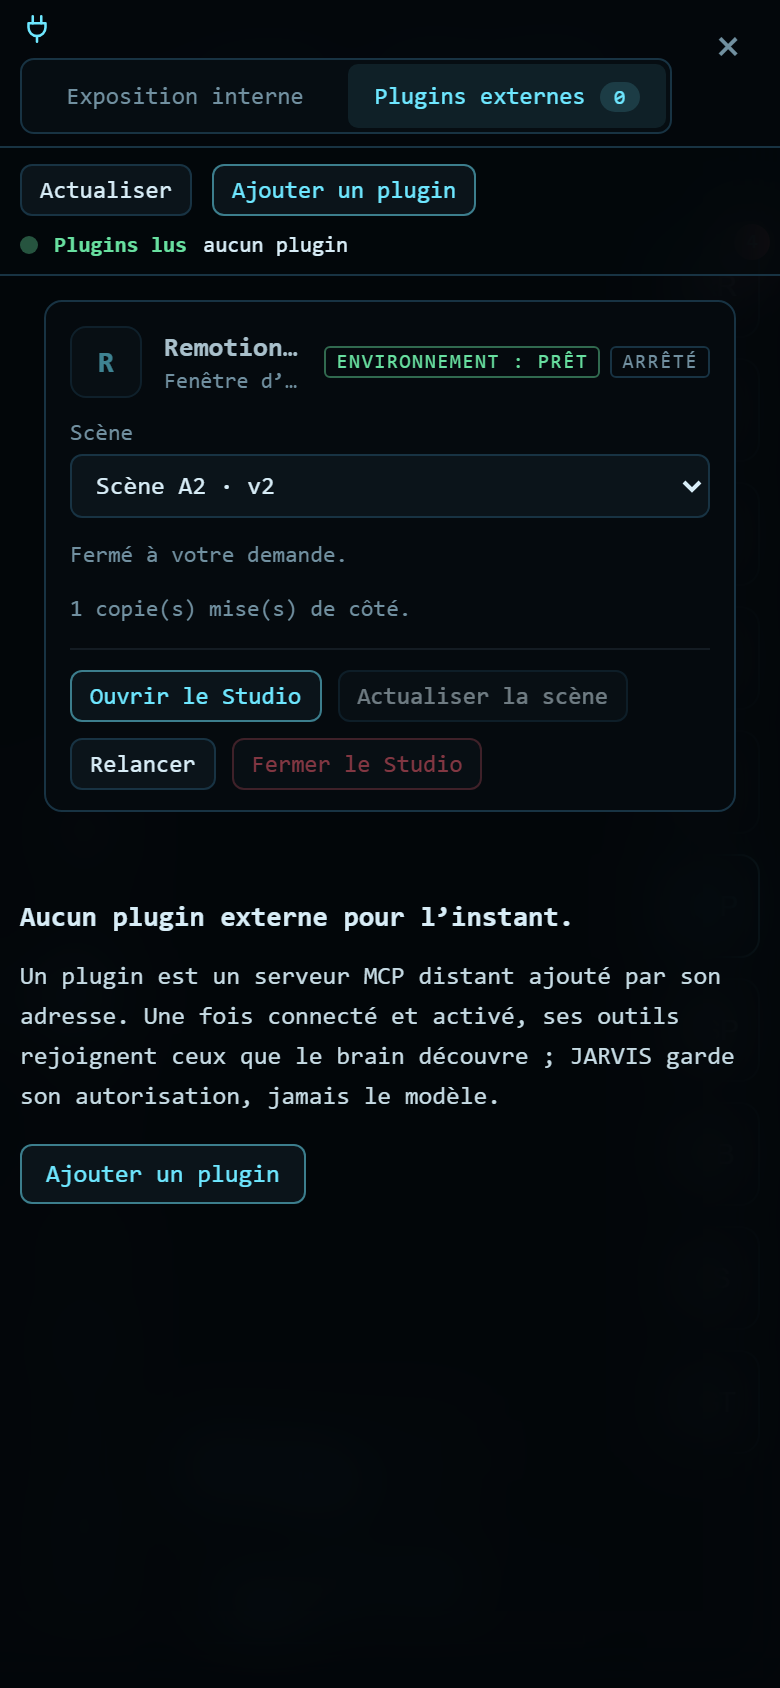
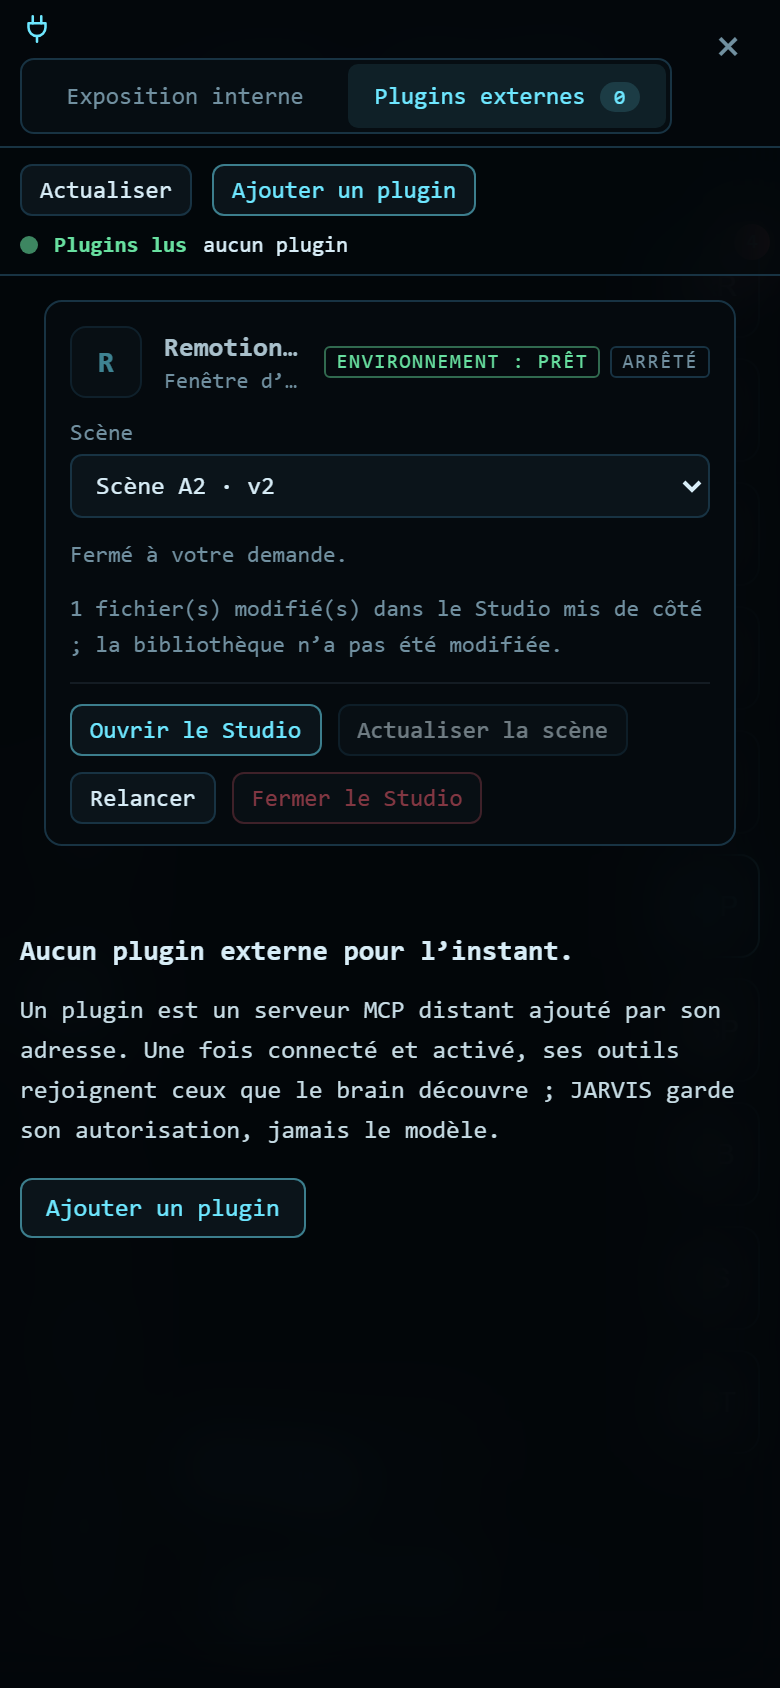
S11: LOG and evidence index, final real evidence at 875407f1

diff --git a/tasks/jarvis-remotion-presentation-integration/LOG.md b/tasks/jarvis-remotion-presentation-integration/LOG.md
@@ -102,3 +102,14 @@ Ancienne branche supprimée, recréée depuis origin/main de7b9c59 (studio fusio
 - **Polish** : P1 chien de garde et tas reformulés (abus naïf ou accidentel seulement) ; P2 message de 64 Mo mesuré (hôte figé 240 à 340 ms puis `too_large`) et documenté (l'hôte ne peut pas l'empêcher) ; P3 `embedder_frame_src` n'accepte plus qu'une origine, la Slice 10 doit monter le cadre dans un document sans `frame-src` du visualiseur ou trancher et tester ; P4 `origin_of` canonique (`ipaddress`, IPv4 pointé de boucle ou `localhost`) ; P5 rafale soutenue : retrait en 3 s (`maxFloodSeconds`) au lieu de ~20 s, rafale invalide ~0,14 s ; P7 membres ZIP dupliqués refusés (`archive_duplicate`) ; jeton de ping `strongToken()` (128 bits cryptographiques) ; addendum de réception dans `slices/10-remotion-player-host/SLICE.md` (frame-src, `tick()`, jeton fort, `Allow-Origin: *`, discipline des props).
 - **Preuve réelle rafraîchie** : `evidence/real-isolation.json`, `5cd1fa9f`, arbre propre, Chrome 154.0.8037.99, Node v24.18.0 : **PASSED, 44 vérifications** (13 échantillons × direct/évasif, canaux WebRTC/liens, message de 64 Mo, contrôles négatifs, ablations dont « sans durcissement », rien reçu par le puits hors contrôles et ablations).
 - **Tests** : `test_remotion_isolation` 229, `test_remotion_sandbox_protocol_js` 15, `test_remotion_isolation_docs` 7.
+
+## 2026-10-09 - Slice 11 : Studio Remotion optionnel, serveur d'aperçu à chaud (worktree brs11, branche `task/jarvis-remotion-presentation-integration-s11`, base `a4b39d46`)
+- **Contrat** : `docs/remotion-studio.md` (Level 2 ; `SECURITY.md` §19, `OPERATIONS.md` « Studio Remotion optionnel », `local-capabilities.md` §6-7, `remotion-runtime.md` §6/§11). Le Studio (`remotion studio`, webpack, rechargement à chaud) est un **processus supplémentaire** de la capacité locale Remotion, ouvert **seulement** par `POST /v1/local-capabilities/remotion/studio/open` (bouton de la carte) : jamais au démarrage de Core, par l'aperçu, ni par un `GET`. **Un seul par profil** (réouverture de la même scène = hôte réutilisé ; autre scène = changement en place par `sync`, même processus).
+- **Code** : `jarvis/domain/remotion_studio.py` (statuts, codes `remotion_studio_*`, `plan_workspace` pur, vue publique), `jarvis/ports/remotion_studio.py`, `jarvis/adapters/remotion_studio_runner.py` (copie de travail, lancement, identité, arrêt de l'arbre), `jarvis/core/remotion_studio_service.py` (états, un hôte, surveillance, inactivité, `reconcile`/adoption, arrêt de Core), `jarvis/protocol/remotion_studio_routes.py` (préfixe frère `/v1/local-capabilities/remotion/studio`), `jarvis/capabilities/remotion/studio-guard.cjs` (garde dans le processus du Studio), `jarvis/runtime/remotion_studio_relay.py` + `control_center_remotion_studio.js` (carte « Remotion · Studio », en tête de l'onglet « Plugins externes »). Câblage minimal dans `v2_app.py` (service + crochet `before_operation` : le Studio est arrêté avant `update/repair/uninstall/disable` de la capacité), `app.py` (runner, `JARVIS_REMOTION_STUDIO_PORT`, `JARVIS_REMOTION_STUDIO_IDLE_S`), `server.py`, `client.py` (préfixe relayé `/v1/local-capabilities/remotion`), `control_center.py`/`.html`. `runtime-host.mjs`, `package*.json`, la compilation, la scène, le Player, la sandbox et le moteur ne sont pas touchés.
+- **Source servie** : uniquement `src/**` et `public/**` de la version épinglée (`PrefabService.remotion_source`, gardes de la Slice 06 comprises) + deux fichiers générés (`package.json` qui fait de `work/` la racine Remotion, `studio-root.tsx` avec la composition **déclarée** et les `sample.props`), en **copie en lecture seule** sous `runtime/studio/work/`. Jamais la racine de données. Les modifications faites hors de Jarvis (Studio ou main) sont détectées par empreintes, **mises de côté** (`studio/edits/`, 5 dossiers) avant chaque synchronisation et à la fermeture, jamais publiées : l'écriture vers la bibliothèque reste `PrefabService` (Slices 14-15).
+- **Constats de la recherche réelle (décisifs pour le garde)** : (1) le Studio stock lie `0.0.0.0`/`::` (« Network: http://192.168... » dans son journal) ; (2) son API, de même origine que la scène, sait lancer un gestionnaire de paquets (`install-dependency`), un éditeur, un terminal, un agent, `upgrade-remotion`, et télécharger une URL (`download-remote-asset`) ; (3) il a besoin d'un seul enfant, le service `esbuild` de son chargeur TSX (mesuré : sans cette exception la compilation du Studio échoue). Le garde (`--require`, copié et comparé à chaque lancement) force la boucle locale, refuse toute connexion TCP/DNS/UDP sortante et tout enfant hors `esbuild` épinglé, pose une CSP, répond à `/__jarvis_studio__/health` (identifiant de lancement), tient `activity.json`, et **termine seul** le Studio si Core a disparu depuis 60 s ou après l'inactivité (jamais d'orphelin).
+- **Décisions** : (1) échec de démarrage = la vue (`failed` + code + journal), pas une erreur HTTP, comme les capacités ; (2) une collision de port aléatoire est retentée une fois, un port imposé jamais remplacé ; (3) pas de reprise automatique après plantage (`failed` + « Relancer », explicite) ; (4) l'inactivité = aucune requête **et** aucun WebSocket (un onglet ouvert n'est jamais inactif) ; (5) le Control Center ne relaie **que** six adresses, jamais l'installation ; (6) l'ouverture automatique de la fenêtre après un long démarrage peut être refusée par le navigateur : le lien reste affiché.
+- **Preuve réelle** : `slices/11-remotion-studio-process-ui/evidence/real-studio.json` + `evidence/screens/*.png`, `scripts/remotion_studio_harness.py` à `875407f1` (arbre propre ; Windows 11 10.0.26200, Node v24.18.0, Chrome 154.0.8037.99) : **PASSED, 38 vérifications**. Core isolé (`127.77.0.9`, port libre, racine de données privée), **vraie installation npm** (12 à 24 s), vraie bibliothèque de prefabs, **vrai `remotion studio`** (démarrage à froid 31 à 50 s), vrai Control Center isolé, vrai Chrome. Prouvé : aucun lancement par Core ni par la carte ; écoute **seulement** sur `127.0.0.1` (netstat de l'arbre) et l'adresse du réseau local refuse le port ; scène affichée dans Chrome ; **rechargement à chaud sans recharger la page en 0,6 à 1,8 s** après publication d'une nouvelle version + `sync` ; la CSP de la page bloque `fetch` vers un autre domaine et une image distante ; un hôte, changement de scène sur place (mêmes pids) ; copie en lecture seule, modification extérieure signalée puis mise de côté, bibliothèque intacte ; `restart` remplace tout l'arbre, un `taskkill` externe devient `failed`/`process_exited`, `open` récupère ; `close` sans processus ni port ; interface complète (progression avec durée écoulée et échéance, lien, fenêtre à part sur geste, `sync`, échec expliqué, relance, fermeture, 390 px, 0 exception) ; inactivité réelle 60 s ; Core tué sans son arbre : le Studio survit et le Core suivant l'**adopte**, sans Core il se termine seul en 55 à 58 s ; arrêt propre de Core : `core_stopped`, 0 orphelin ; port occupé : refus typé ; `uninstall` avec Studio ouvert : arrêté d'abord ; 0 processus restant à la fin.
+- **Défauts trouvés par la preuve réelle puis corrigés** : le relais du Control Center ne pouvait pas atteindre `/v1/local-capabilities/*` (liste blanche du client de Core ; test de chaîne réelle ajouté, `test_capture_relay` épingle le nouveau préfixe) ; le cache webpack du Studio (`work/node_modules/.cache`) comptait comme « fichiers modifiés » et faisait échouer la synchronisation ; `syncs` n'était pas par lancement ; l'arrêt « propre » de Core par `CTRL_BREAK` ne passait pas par `core.stop()` (le harnais emploie maintenant l'annulation de la tâche principale, comme Ctrl+C) ; le blocage de tout processus enfant cassait la compilation du Studio (service `esbuild`) : exception exacte sur le binaire épinglé.
+- **Tests** (interpréteur `.venv` de `C:/Projects/jarvis/jarvis`, cwd brs11, un fichier à la fois) : nouveaux `test_remotion_studio` 42, `test_remotion_studio_runner` 22, `test_remotion_studio_guard` 12 (vrai Node), `test_remotion_studio_routes` 18 (vrai Core + vraie bibliothèque), `test_control_center_remotion_studio` 17 (relais, chaîne réelle Control Center -> Core, module par node), `test_remotion_studio_docs` 9, opt-in `test_remotion_studio_real` 1 (vrai Studio, `JARVIS_REMOTION_RUNTIME_DIR`) = 121 ; modifiés `test_capture_relay` 35 (préfixe épinglé), `test_local_capability_routes` 21 (route documentée de la famille sœur). Voisinage vert : test_local_capability_host 80, test_node_capability_runner 62, test_process_tree 14, test_remotion_lifecycle 8, test_v2_architecture 8, test_control_center_mcp_api 54, test_control_center_mcp_inspector_js 34, test_control_center_mcp_plugins_api 96, test_control_center_mcp_plugins_js 61, test_control_center_appearance 5, test_control_center_mvp 23, test_control_center_quality 73, test_control_center_catalog_ui 14, test_agent_cli_settings_ui 13, test_prefab_relay 22, test_prefab_routes 25, test_documented_routes 3, test_remotion_isolation_docs 7, test_remotion_source_docs 6, test_schema_migrations 8 (aucune migration : aucun schéma touché). Rouges de BASELINE.md non relancés (aucun fichier de prompt/Tool Brain touché).
+- **Risques résiduels** : la scène tourne dans l'onglet du Studio **sans** le bac à sable du Player (même origine que l'API du Studio) ; frontières = gardes statiques, garde du processus (réseau/DNS/UDP/enfants refusés), CSP de la page, copie en lecture seule ; WebRTC et `dns-prefetch`/`preconnect` côté navigateur ne sont pas couverts par la CSP ; le garde est du JavaScript dans le processus, pas un bac à sable du système (natif, `worker_threads`, `process.binding`) ; suppression d'un fichier de la copie possible sous POSIX (détectée et remplacée à la synchronisation) ; licence Remotion non examinée (invites de licence éventuelles du Studio, aucune clé) ; premier démarrage lent ; Windows seul éprouvé en réel ; une modification de la copie n'est vue qu'à la lecture de l'état, à la fermeture et avant `sync`. Humain : HV-11-01 (ouvrir le Studio à côté de Jarvis dans le vrai navigateur et le fermer sans perte) reste à faire sur le poste ; aucun redémarrage de Core ni du Control Center n'a été fait ni n'est requis par l'implémentation seule, mais le poste de l'utilisateur doit les relancer pour charger les nouvelles routes et la carte.

diff --git a/docs/remotion-studio.md b/docs/remotion-studio.md
@@ -133,7 +133,7 @@ Harnais `scripts/remotion_studio_harness.py` : **Core isolé** (`python -m jarvi
 | Groupe | Ce qui est prouvé |
 | --- | --- |
 | 0-2 | le démarrage de Core ne lance aucun Studio ; installation réelle de la capacité ; une scène inconnue est refusée sans rien lancer |
-| 3-4 | ouverture (démarrage à froid de webpack, 30 à 45 s) ; écoute **seulement** sur la boucle locale (netstat sur l'arbre) ; l'adresse du réseau local refuse le port ; CSP présente |
+| 3-4 | ouverture (démarrage à froid de webpack, 30 à 50 s) ; écoute **seulement** sur la boucle locale (netstat sur l'arbre) ; l'adresse du réseau local refuse le port ; CSP présente |
 | 5 | Chrome affiche la scène ; une nouvelle version publiée puis `sync` s'affiche **sans recharger la page** (moins de 2 s) ; la CSP de la page bloque `fetch` vers un autre domaine et une image distante |
 | 6-7 | `open` répété : même hôte ; autre scène : même processus ; copie en lecture seule ; une modification extérieure est signalée puis mise de côté avant la synchronisation ; la bibliothèque ne la reçoit jamais |
 | 8-9 | `restart` remplace tout l'arbre ; un processus tué hors de Jarvis devient `failed`/`process_exited` ; `open` récupère ; `close` ne laisse ni processus node ni port |
@@ -148,7 +148,7 @@ Tests automatiques (aucun réseau, aucun navigateur) : `tests/unit/test_remotion
 - **La scène s'exécute dans l'onglet du Studio, sans le bac à sable du Player** (Slice 06) : même origine que l'API du Studio, hors iframe `sandbox`. Frontières réelles : (a) les gardes statiques (publication et relecture) ; (b) le garde du processus (aucune connexion sortante, aucun DNS, aucun UDP, aucun enfant sauf esbuild) ; (c) la CSP de la page (la preuve réelle bloque `fetch` et les images vers un autre domaine) ; (d) la copie en lecture seule, sans secret de Jarvis dans le processus ni dans le dossier. **Ce qui reste ouvert** : la CSP ne couvre pas WebRTC ni `<link rel=dns-prefetch|preconnect>` depuis le navigateur de l'utilisateur (même limite que [remotion-isolation.md](remotion-isolation.md) §9, sans le durcissement dans le royaume du bac à sable) ; la scène peut appeler l'API du Studio (lecture de la copie, écriture bloquée par l'attribut lecture seule sous Windows mais pas la suppression sous POSIX) ; un module natif ou un autre processus n'est pas couvert par un garde en JavaScript. N'ouvrir le Studio que sur une scène que l'on connaît.
 - **Le garde n'est pas un bac à sable du système d'exploitation** : un code natif, un `worker_threads` rechargeant un module non patché, ou `process.binding` y échappent. Aucun accès aux secrets de Jarvis n'existe dans ce processus (environnement en liste blanche), mais il tourne avec les droits de l'utilisateur sur ses fichiers.
 - **Licence Remotion non examinée ici** (contrat distinct, [local-capabilities.md](local-capabilities.md) §6). Le Studio affiche, selon la version et l'usage, des invites ou rappels de licence ; aucune clé n'est configurée, `--disable-ask-ai` coupe l'assistant en ligne, et les appels sortants du Studio (vérification de version, ressources distantes) échouent par construction, ce qui est visible dans `egress_blocked`.
-- **Premier démarrage lent** : webpack construit tout le Studio à froid (30 à 45 s mesurés), 120 s au plus ; ensuite le rechargement à chaud est immédiat.
+- **Premier démarrage lent** : webpack construit tout le Studio à froid (30 à 50 s mesurés), 120 s au plus ; ensuite le rechargement à chaud est immédiat.
 - **Un fichier de la copie modifié par le Studio** n'est détecté qu'à la lecture de l'état, à la fermeture et avant une synchronisation (comparaison d'empreintes), pas en continu.
 - **Windows uniquement éprouvé en réel** ; POSIX est couvert par la logique (groupe de processus, `ps`/`/proc`) et les tests unitaires, non exécuté.
 - **Une seule fenêtre d'édition** : un second onglet du même Studio est possible ; Jarvis ne les distingue pas (compte seulement).

diff --git a/tasks/jarvis-remotion-presentation-integration/docs/07-evidence-index.md b/tasks/jarvis-remotion-presentation-integration/docs/07-evidence-index.md
@@ -126,3 +126,10 @@ Observed by running and reading, not copied from the snapshot above.
 - Unit evidence (no network, no browser): `tests/unit/test_remotion_isolation.py` (229), `test_remotion_sandbox_protocol_js.py` (15, node), `test_remotion_isolation_docs.py` (7); hostile corpus `tests/fakes/remotion_hostile.py`; compile-bound tests in `test_remotion_compiler_real.py` (need an installed runtime). Counts and neighbours: LOG.md entry "Slice 06".
 - Open by measurement (named residual, not closed): `<link rel=dns-prefetch|preconnect>` from the scene; WebRTC closed in-realm only.
 - Not evidenced: the sandbox mounted in Core/Control Center (Slice 10; Core never started), browsers other than Chrome, macOS/Linux, a browser without site isolation, CPU-burning but responsive scenes, native memory of the compiler child.
+
+## Slice 11 - Optional Remotion Studio (2026-10-09, branch `task/jarvis-remotion-presentation-integration-s11`, base `a4b39d46`)
+
+- Contract: `docs/remotion-studio.md` (Level 2); `docs/SECURITY.md` section 19; `docs/OPERATIONS.md` "Studio Remotion optionnel"; `docs/local-capabilities.md` sections 6-7; Issue 02 point (a) partly resolved.
+- Real-machine evidence: `slices/11-remotion-studio-process-ui/evidence/real-studio.json` + `evidence/screens/*.png`, produced by `scripts/remotion_studio_harness.py` at repository head `875407f1` (clean tree; Windows 11 10.0.26200, Node v24.18.0, Chrome 154.0.8037.99): verdict PASSED, 38 checks. Isolated Core (own host/port/data root), real npm install of the capability, real prefab library, real `remotion studio` (Node, webpack, HMR), real isolated Control Center, real headless Chrome over DevTools. Reproduce: `python scripts/remotion_studio_harness.py --work-dir <short temp dir> --evidence <file>` (about 8 minutes, about 600 MB).
+- Unit evidence (no network, no browser): `tests/unit/test_remotion_studio.py` (42), `test_remotion_studio_runner.py` (22), `test_remotion_studio_guard.py` (12, real Node, no Remotion), `test_remotion_studio_routes.py` (18, real Core), `test_control_center_remotion_studio.py` (17), `test_remotion_studio_docs.py` (9); opt-in `test_remotion_studio_real.py` (1, needs `JARVIS_REMOTION_RUNTIME_DIR`). Counts and neighbours: LOG.md entry "Slice 11".
+- Not evidenced: macOS/Linux, a non-Chrome browser, the Human check HV-11-01, WebRTC/link-hint exfiltration from the user's browser tab (documented residual), a hostile scene run in the Studio (the Slice 06 corpus targets the Player sandbox, not the Studio).

diff --git a/docs/OPERATIONS.md b/docs/OPERATIONS.md
@@ -3422,7 +3422,7 @@ sur `127.0.0.1` (port libre, ou `JARVIS_REMOTION_STUDIO_PORT`). Prérequis : la 
 scène Remotion publiée dans la bibliothèque.
 
 - **Depuis le Control Center** : dialogue MCP, onglet « Plugins externes », carte « Remotion · Studio » : choisir la scène, **Ouvrir le Studio**
-  (30 à 45 s à froid, 2 min au plus, compteur affiché), puis **Ouvrir la fenêtre du Studio**. **Actualiser la scène** recopie la dernière
+  (30 à 50 s à froid, 2 min au plus, compteur affiché), puis **Ouvrir la fenêtre du Studio**. **Actualiser la scène** recopie la dernière
   version publiée (le Studio se recharge sans redémarrer), **Relancer**, **Fermer le Studio**. Arrêt automatique après 30 minutes sans fenêtre
   ouverte (`JARVIS_REMOTION_STUDIO_IDLE_S`, 60 à 86400 s).
 - **Depuis PowerShell** (jeton comme pour la capacité) :
